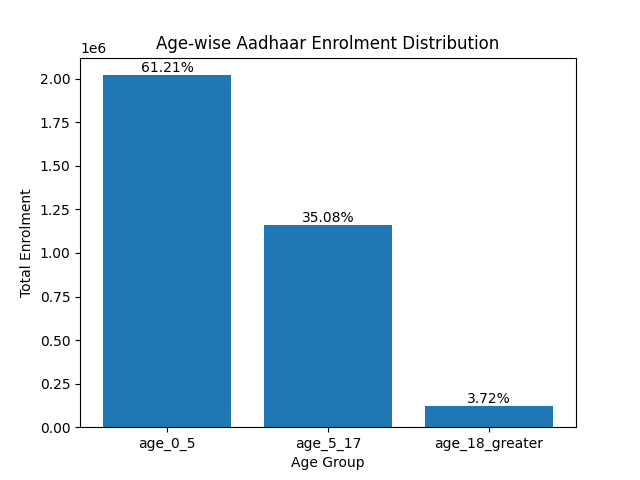
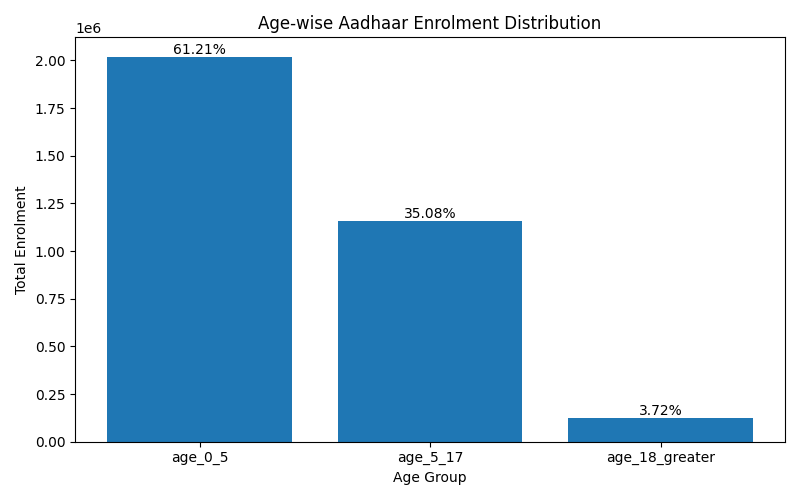
Initial UIDAI state-wise  enrolment analysis

Changed region(s): [[0.0, 0.0312, 1.0, 1.0]]

diff --git a/analysis.py b/analysis.py
@@ -20,35 +20,95 @@ age_total = df[age_columns].sum()
 for age ,  value in age_total.items():
      print(f"{age}: {value}")
 
-
-
 # age percent contribution 
-
 age_percent = (age_total/ age_total.sum())*100.
 print("\nAge-wise percentage contribution:")
 for age, value in age_percent.round(2).items():     
      print(f"{age}: {value}%")
 
-    #matplot code
+# calculations
 
+# state cal
+df["total_enrolment"] = (df["age_0_5"]+df["age_5_17"]+df["age_18_greater"])
+
+state_total = df.groupby("state")["total_enrolment"].sum()
+
+top_5_states = state_total.sort_values(ascending=False).head(5)
+
+print("\nTop 5 states by Aadhaar enrolment")
+for state, value in top_5_states.items():
+     print(f"{state}:{value}")
+
+# Bottom 5 states by Aadhaar enrolment (low enrolment)
+bottom_5_states = state_total.sort_values().head(5)
+
+print("\nBottom 5 states by Aadhaar enrolment:")
+for state,value in bottom_5_states.items():
+     print(f"{state}:{value}")
+
+
+
+# ---------------- DATE-WISE ANALYSIS ----------------
+
+df["date"] = pd.to_datetime(df["date"],format="mixed", dayfirst=True)
+
+date_total = df.groupby("date")["total_enrolment"].sum()
+
+
+print("\nDate-wise Aadhaar enrolment (sample):")
+print(date_total.head())
+
+
+# ---------------- AGE-WISE GRAPH ----------------
+plt.figure(figsize=(8,5))
 
 age_groups = age_total.index
 values = age_total.values
 
-# bar chart
-plt.figure()
-plt.bar(age_groups,values)
-for i, percent in enumerate(age_percent.round(2)):
-    plt.text(i, values[i], f"{percent}%", ha='center', va='bottom')
-# labels and titles
-
+plt.bar(age_groups, values)
 plt.xlabel("Age Group")
 plt.ylabel("Total Enrolment")
 plt.title("Age-wise Aadhaar Enrolment Distribution")
 
-# save graph
+for i, percent in enumerate(age_percent.round(2)):
+    plt.text(i, values[i], f"{percent}%", ha='center', va='bottom')
 
+plt.tight_layout()
 plt.savefig("age_wise_enrolment.png")
-# show graph
+plt.show()
 
+# ---------------- TOP 5 STATES GRAPH ----------------
+plt.figure(figsize=(8,5))
+
+states = top_5_states.index
+values = top_5_states.values
+
+plt.bar(states, values)
+plt.xlabel("States")
+plt.ylabel("Total Enrolment")
+plt.title("Top 5 States by Aadhaar Enrolment")
+
+for i, value in enumerate(values):
+     plt.text(i ,value, f"{value}", ha="center", va="bottom")
+
+plt.tight_layout()
+plt.savefig("top_5_states_enrolment.png")
+plt.show()
+
+# ---------------- BOTTOM 5 STATES GRAPH ----------------
+plt.figure(figsize=(8,5))
+
+states = bottom_5_states.index
+values = bottom_5_states.values
+
+plt.bar(states, values, color ="red")
+plt.xlabel("States")
+plt.ylabel("Total Enrolment")
+plt.title("Bottom 5 States by Aadhaar Enrolment")
+
+for i, value in enumerate(values):
+     plt.text(i ,value, f"{value}", ha="center", va="bottom")
+
+plt.tight_layout()
+plt.savefig("bottom_5_states_enrolment.png")
 plt.show()
